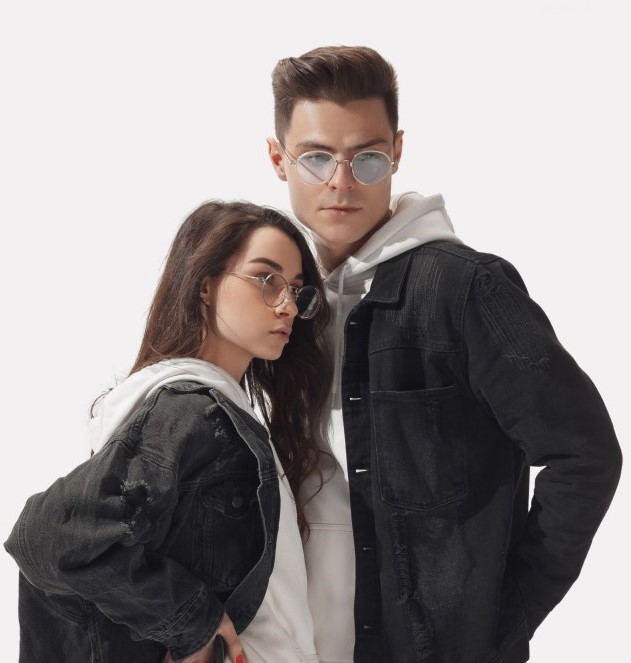
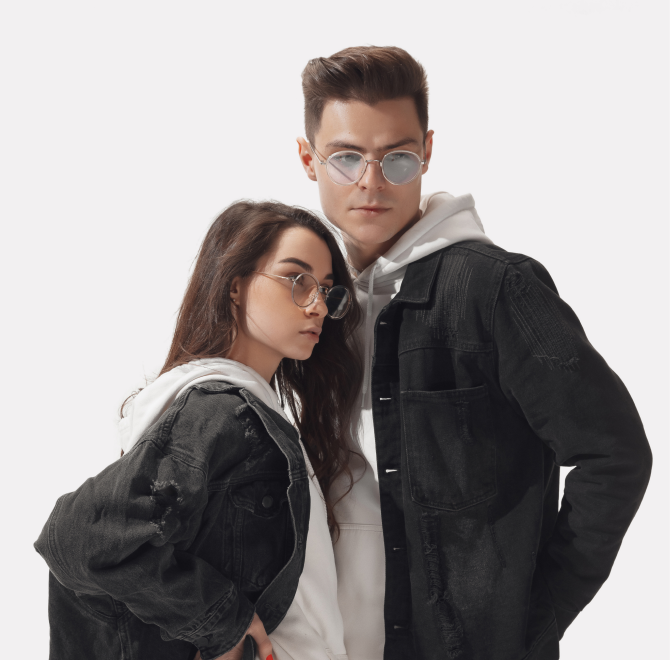
done with the hero section

diff --git a/src/pages/Hero/Hero.tsx b/src/pages/Hero/Hero.tsx
@@ -1,48 +1,10 @@
-import hero1 from "../../assets/images/hero-image.png";
-
+import Left from "./left";
+import Right from "./right";
 const Hero = () => {
   return (
-    <div className="bg-whitedark flex 2xl:justify-between items-center pt-6 px-16 large:flex-wrap medium:justify-center small:px-4">
-      <div className="">
-        <h1 className="font-satoshiBold text-6xl w-[29rem] pb-7 small:text-5xl small:w-[23rem]">
-          FIND CLOTHES THAT MATCHES YOUR STYLE
-        </h1>
-        <p className="font-satoshireguler pb-7 w-[35rem] xLarge:w-[30rem] text-gray-500 medium:w-[25rem] tiny:w-[23rem]">
-          Browse through our diverse range of meticulously crafted garments,
-          designed to bring out your individuality and cater to your sense of
-          style.
-        </p>
-        <button className="bg-secondory text-primary p-2 rounded-full w-40 hover:bg-gray-500 hover:text-secondory transition duration-500 medium:w-[100%] small:w-[90%]">
-          Shop Now
-        </button>
-
-        <div className="flex text-center pt-6 font-satoshiBold text-2xl medium:block medium:ml-20 small:ml-8 tiny:ml-1.5">
-          <div className="flex small:w-[90%]">
-            <h1 className="">
-              200+{" "}
-              <span className="block font-satoshireguler text-gray-500 text-sm">
-                International Brands
-              </span>
-            </h1>
-            <hr className="bg-gray-500 w-[1px] h-14 mx-5" />
-            <h1>
-              2,000+{" "}
-              <span className="block font-satoshireguler text-gray-500 text-sm">
-                High-Quality Products
-              </span>
-            </h1>
-          </div>
-          <hr className="bg-gray-500 w-[1px] h-14 mx-5 medium:hidden" />
-          <h1 className="medium:pt-3 medium:w-[77%] small:w-[80%]">
-            30,000+{" "}
-            <span className="block font-satoshireguler text-gray-500 text-sm">
-              Happy Customers
-            </span>
-          </h1>
-        </div>
-      </div>
-
-      <img src={hero1} alt="Slide 1" className="2xl:w-[55%] xLarge:w-[55%]" />
+    <div className="bg-whitedark flex gap-24 items-center pt-7 px-[8%] xLarge:px-[4%] large:flex-col large:px-[15%] small:px-[5%] ">
+      <Right></Right>
+      <Left></Left>
     </div>
   );
 };

diff --git a/src/pages/Hero/right.tsx b/src/pages/Hero/right.tsx
@@ -1,0 +1,26 @@
+import Statistics from "./statistics";
+const Right = () => {
+  return (
+    <div className="w-[45%] large:w-full large:text-center medium:text-left">
+      <h1 className="font-secondary  text-6xl 2xl:text-[46px] leading-[64px] xLarge:text-5xl pb-7 small:text-4xl">
+        FIND CLOTHES THAT MATCHES YOUR STYLE
+      </h1>
+      <p className="font-satoshireguler mb-7  text-gray-500 ">
+        Browse through our diverse range of meticulously crafted garments,
+        designed to bring out your individuality and cater to your sense of
+        style.
+      </p>
+      <button className="bg-secondory text-primary p-2 rounded-full w-40 transition duration-500  large:w-[45%] small:w-full ">
+        Shop Now
+      </button>
+
+      <div className="flex  pt-6 font-satoshiBold text-2xl justify-between large:flex-wrap medium:justify-center ">
+        <Statistics number="200+" string="International Brands" />
+        <Statistics number="2,000+" string="High-Quality Products" />
+        <Statistics number="30,000+" string="Happy Customers" />
+      </div>
+    </div>
+  );
+};
+
+export default Right;

diff --git a/src/pages/Hero/hero.css b/src/pages/Hero/hero.css
@@ -1,0 +1,6 @@
+.before-star {
+  @apply before:bg-[url(../../assets/images/stars.svg)] before:block before:absolute before:size-24 medium:before:size-16 before:bg-no-repeat before:bg-contain before:top-[12%] before:right-0;
+}
+.after-star {
+  @apply after:bg-[url(../../assets/images/stars.svg)] after:block after:absolute  after:size-14  medium:after:size-11 after:bg-no-repeat after:bg-contain after:top-[52%];
+}

diff --git a/src/pages/Hero/statistics.tsx b/src/pages/Hero/statistics.tsx
@@ -1,0 +1,16 @@
+interface statistics {
+  number: string;
+  string: string;
+}
+const Statistics = (props: statistics) => {
+  return (
+    <h1 className="font-satoshiBold text-4xl mt-6 ">
+      {props.number}
+      <span className="block font-satoshireguler text-gray-500 text-sm mt-2 w-36">
+        {props.string}
+      </span>
+    </h1>
+  );
+};
+
+export default Statistics;

diff --git a/src/pages/Hero/left.tsx b/src/pages/Hero/left.tsx
@@ -1,0 +1,13 @@
+import hero from "../../assets/images/hero-image.png";
+import "./hero.css";
+
+const Left = () => {
+  return (
+    <div className="w-[45%]  large:w-full relative">
+      <img src={hero} alt="a photo for a guy and a girl" className="" />
+      <div className="after-star before-star "></div>
+    </div>
+  );
+};
+
+export default Left;
